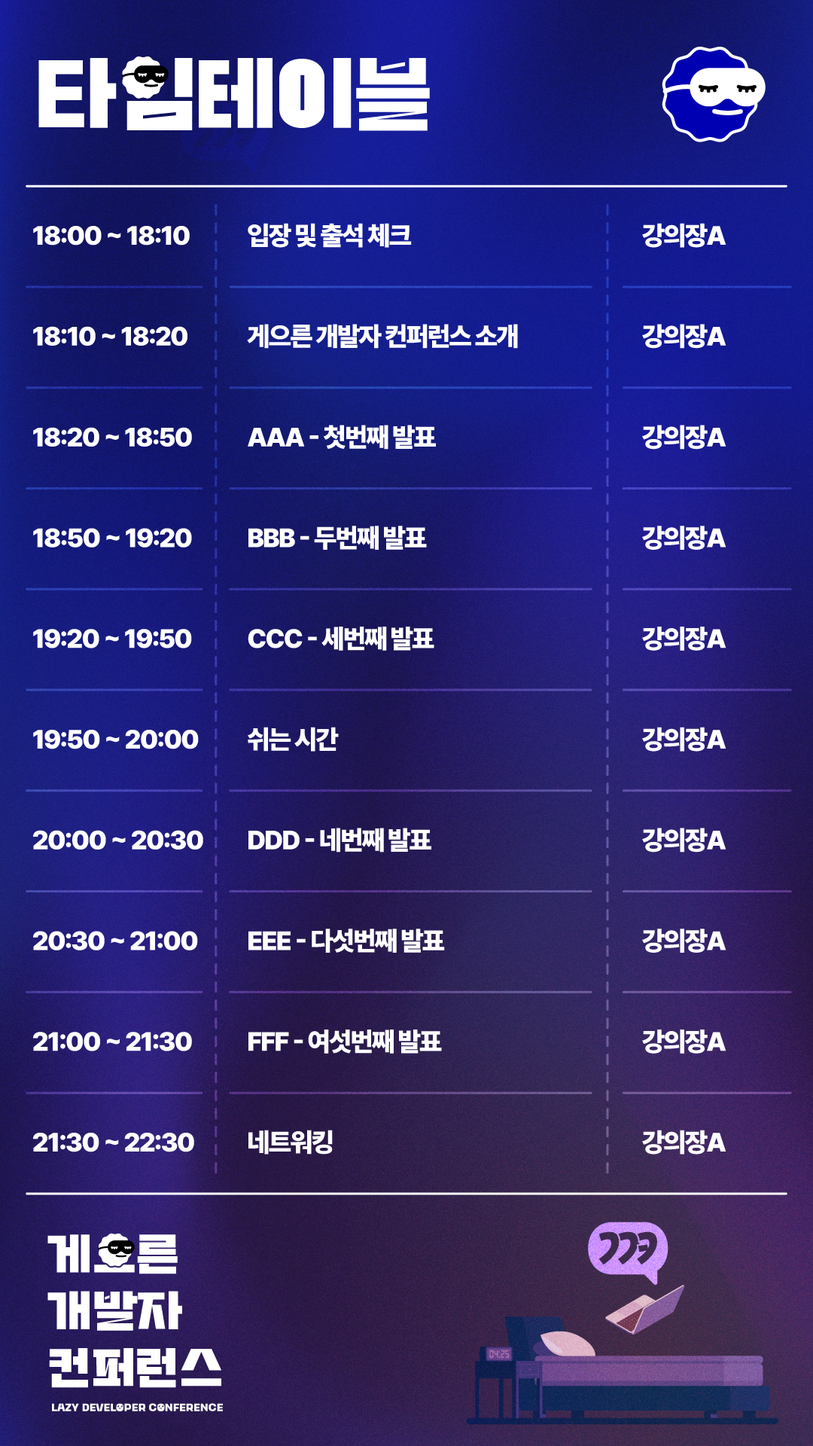
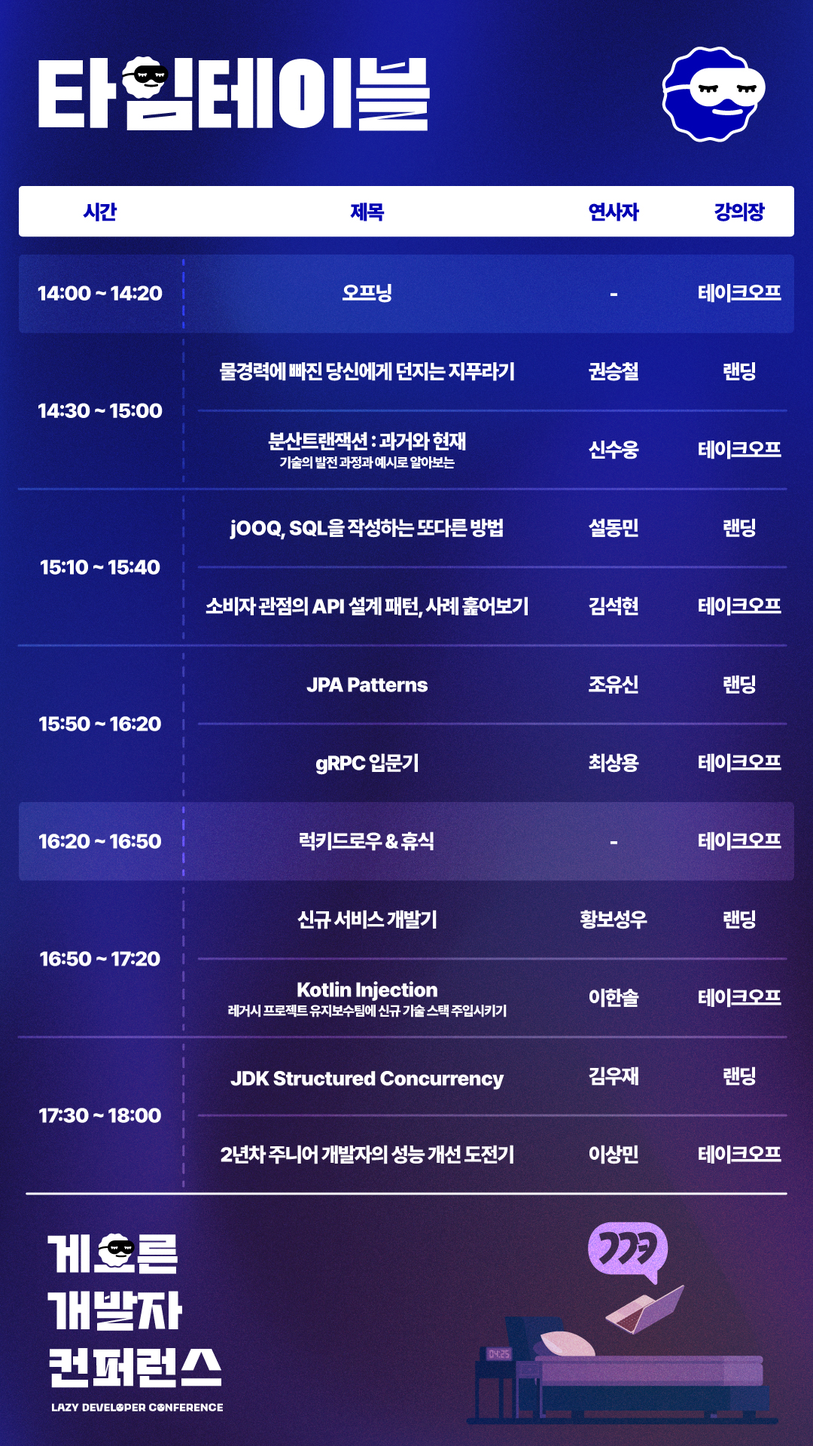
[fix] 타임테이블 최종본으로 변경

Changed region(s): [[0.0, 0.125, 0.9778, 0.8125]]

diff --git a/src/components/Programs.jsx b/src/components/Programs.jsx
@@ -1,5 +1,5 @@
 import { Element } from "react-scroll";
-import img from '../images/time-table-2.jpg'
+import img from '../images/time-table.jpg'
 import header from '../images/time-table-header.jpg'
 import logo from '../images/main-logo.png'
 import { useInView } from "react-intersection-observer";
